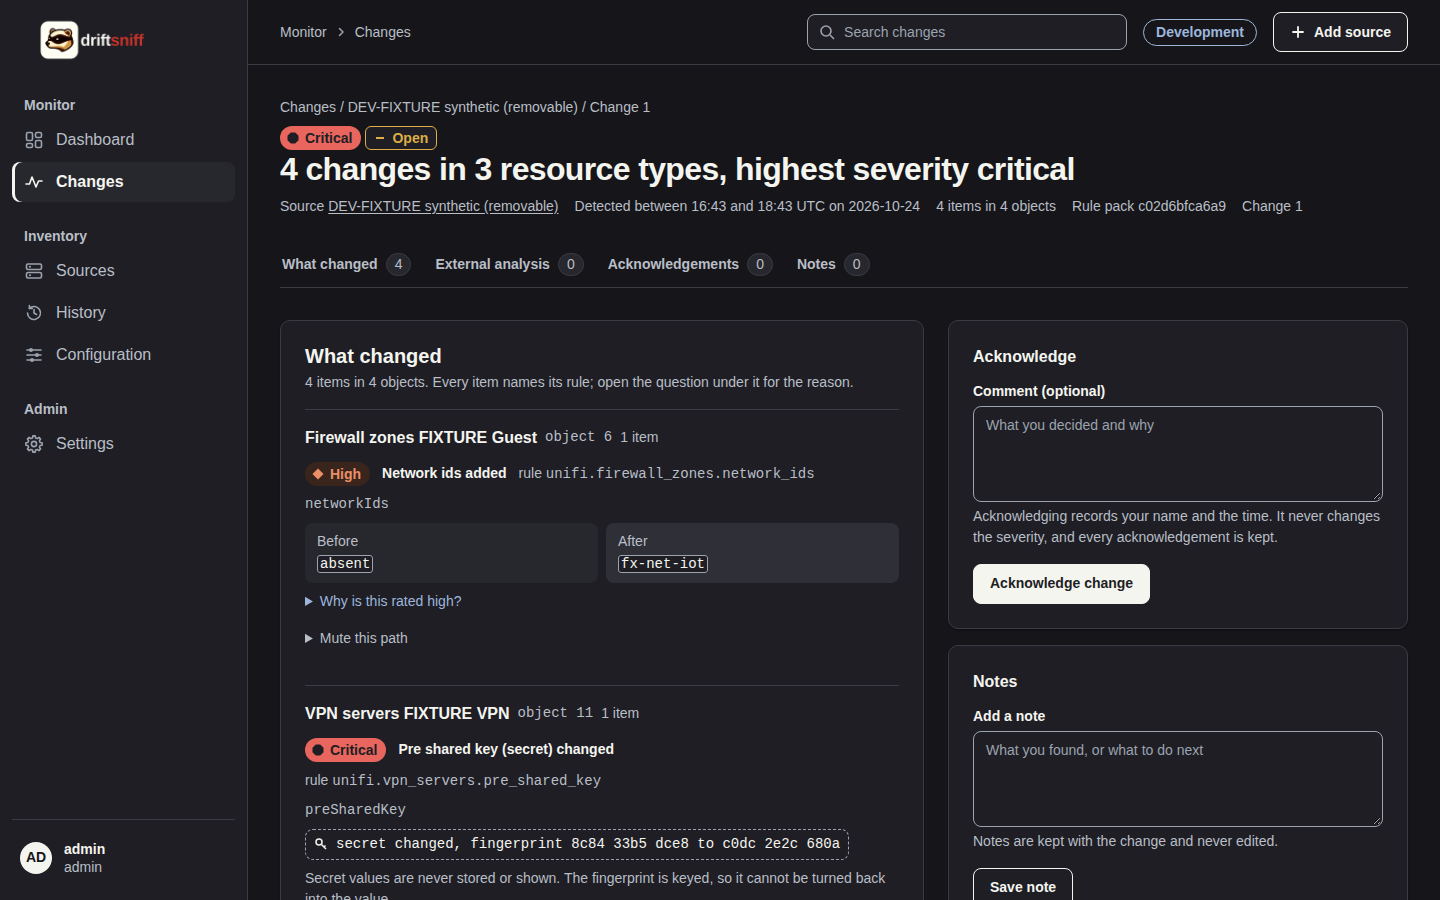
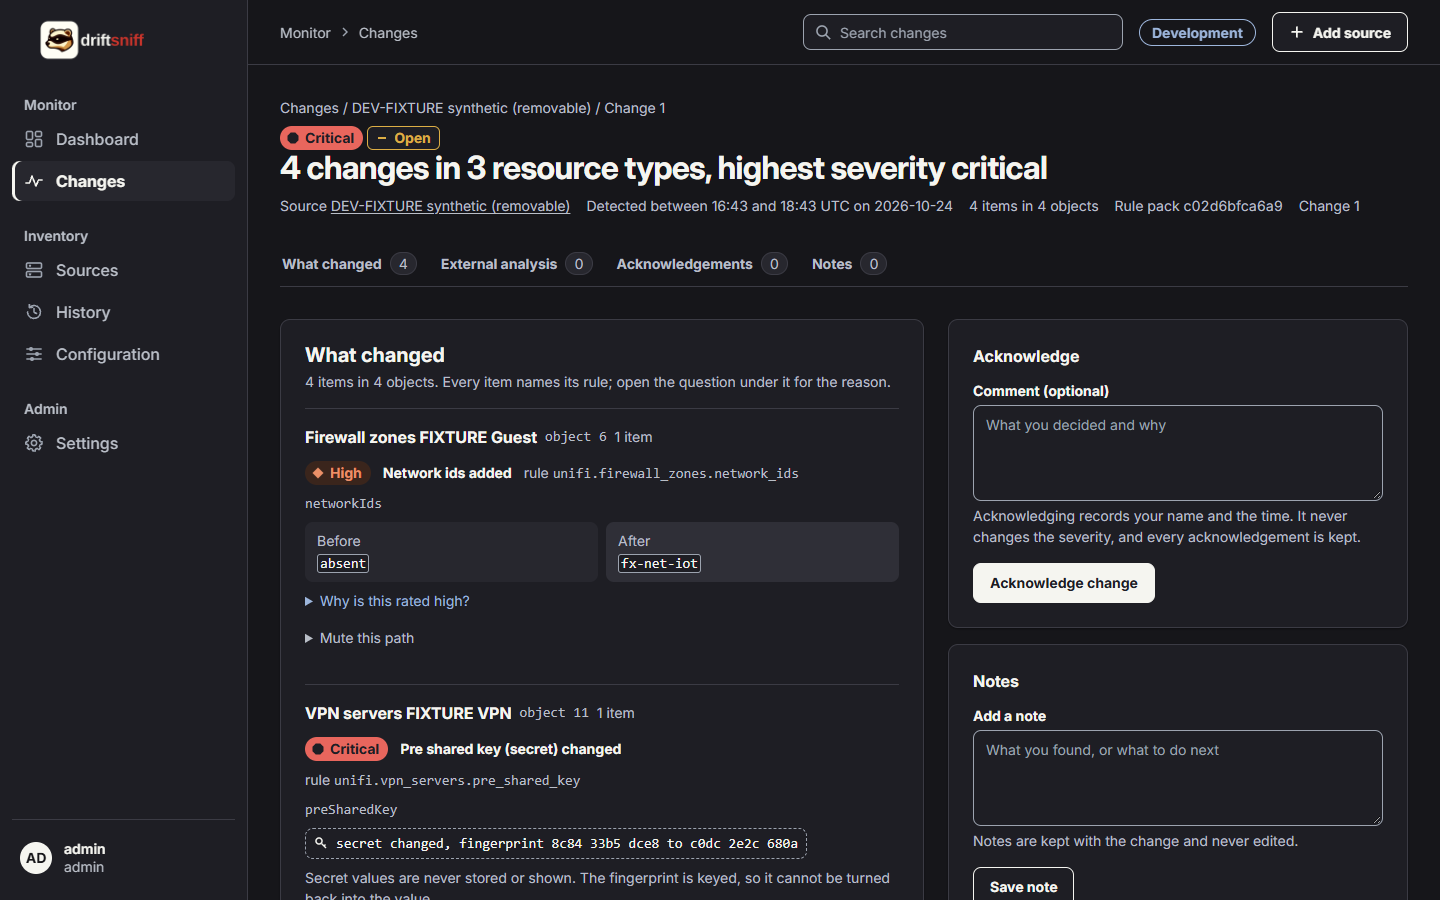
Retake the documentation screenshots after the web UI revamp
All 30 screenshots taken again on Development build 63112500 (Inter, the
page change, the 3D drift field and the 3D change replay), same pages,
roles, sizes and themes as listed in the manifest. The tablet replay picture
is now the whole replay section, so the 3D view, the matrix and the day panel
all show. The settings picture blurs the revoked test token names and first
characters and the owner's account name. Manifest: new hashes, capture times
and build for every screenshot, document hashes refreshed, blur and view
noted; docs README and four alt texts name the 3D views.

diff --git a/docs/README.md b/docs/README.md
@@ -6,10 +6,11 @@ files are identical to those of build `63eaa6ad764955d1d57124ca7727e7bfcb49ddc9`
 `sha256:53ee8584…`), on which the application behaviour was verified; the candidate differs from
 that build only in the CI workflow and a CI test, which the image does not contain. Build
 `63eaa6ad` in turn differs from the earlier build `36f78cc95919b115103af19bd10773d9d69a7386` only
-in the hint under the push source form. The push form screenshot was taken on `63eaa6ad` at
-`https://ce-dev-driftsniff.theriark.dev` on 28 October 2026; the other screenshots were taken
-there on build `36f78cc9` on 26 October 2026 and show pages that neither later build changes. No
-screenshot was taken on `40963ddf`. All captures hold synthetic test data only. The
+in the hint under the push source form. All screenshots were retaken at
+`https://ce-dev-driftsniff.theriark.dev` on 14 November 2026 on the later Development build
+`63112500`, after the web UI revamp (the Inter typeface, the page change, the 3D drift field of
+the dashboard and the 3D change replay of a source page), so they show that build rather than
+the candidate above. All captures hold synthetic test data only. The
 [documentation manifest](documentation-manifest.json) lists every file with its SHA-256 and, for
 every screenshot, the build it was taken on.
 
@@ -80,5 +81,6 @@ package; the screenshots in this documentation show the built product.
 All screenshots are in the `images` folder next to this file. Each one is listed in the
 [documentation manifest](documentation-manifest.json) with the page, the role that was signed in,
 the viewport, the theme, the capture time (Europe/Lisbon) and the documents that use it. Where a
-capture shows the names or first characters of the revoked Development test tokens, those entries
-are blurred; the manifest marks each blurred capture.
+capture shows the names or first characters of the revoked Development test tokens, or the user
+name of the owner's own Development account, those entries are blurred; the manifest marks each
+blurred capture.

diff --git a/docs/user-guide.md b/docs/user-guide.md
@@ -39,7 +39,7 @@ choose Sign out. The sign-in page then confirms "Signed out".
 The start page answers two questions: what changed across your sources in the last 30 days, and
 what still needs a decision.
 
-![The full dashboard at 1440 px: stat cards, open items by severity, Needs attention, drift lines, change items per day, where the open items are, and the activity timeline](images/dashboard-1440-full.png)
+![The full dashboard at 1440 px: stat cards, open items by severity, Needs attention, the 3D drift field above the drift lines, change items per day, where the open items are, and the activity timeline](images/dashboard-1440-full.png)
 
 From the top:
 
@@ -122,7 +122,7 @@ and a short drift line.
 
 Select a source to open its page.
 
-![A source page at 1440 px: status badges, the drift line, the change replay, coverage by resource, recent runs, About this source and Delete this source](images/source-page-1440-full.png)
+![A source page at 1440 px: status badges, the drift line, the change replay with its 3D view, coverage by resource, recent runs, About this source and Delete this source](images/source-page-1440-full.png)
 
 - **Drift line** of the last 30 days, full width.
 - **Change replay.** Choose 7, 30 or 90 days, then step through the days with Previous day and Next

diff --git a/docs/tutorials/05-history-and-configuration.md b/docs/tutorials/05-history-and-configuration.md
@@ -15,7 +15,7 @@ matrix shows how many change items each resource type had per day; a ringed cell
 item. The panel under the matrix lists the chosen day by resource type and severity, and **Open the
 changes of** that day leads to them.
 
-![The change replay at 768 px in the dark theme: the 7, 30 and 90 day choice, the summary, the day controls, the matrix and the chosen day's panel](../images/source-replay-768-dark.png)
+![The change replay at 768 px in the dark theme: the 7, 30 and 90 day choice, the summary, the day controls, the 3D view, the matrix and the chosen day's panel](../images/source-replay-768-dark.png)
 
 With reduced motion on, the replay moves only when you step or drag.
 

diff --git a/docs/tutorials/03-add-a-source.md b/docs/tutorials/03-add-a-source.md
@@ -50,7 +50,7 @@ every interval.
 Select the source name. Its page shows the drift line, the change replay, coverage by resource and
 the recent runs. Coverage tells you which resources answered and how many objects each has.
 
-![A source page: the drift line, the change replay, coverage by resource and recent runs](../images/source-page-1440-full.png)
+![A source page: the drift line, the change replay with its 3D view, coverage by resource and recent runs](../images/source-page-1440-full.png)
 
 ## A push source instead
 
